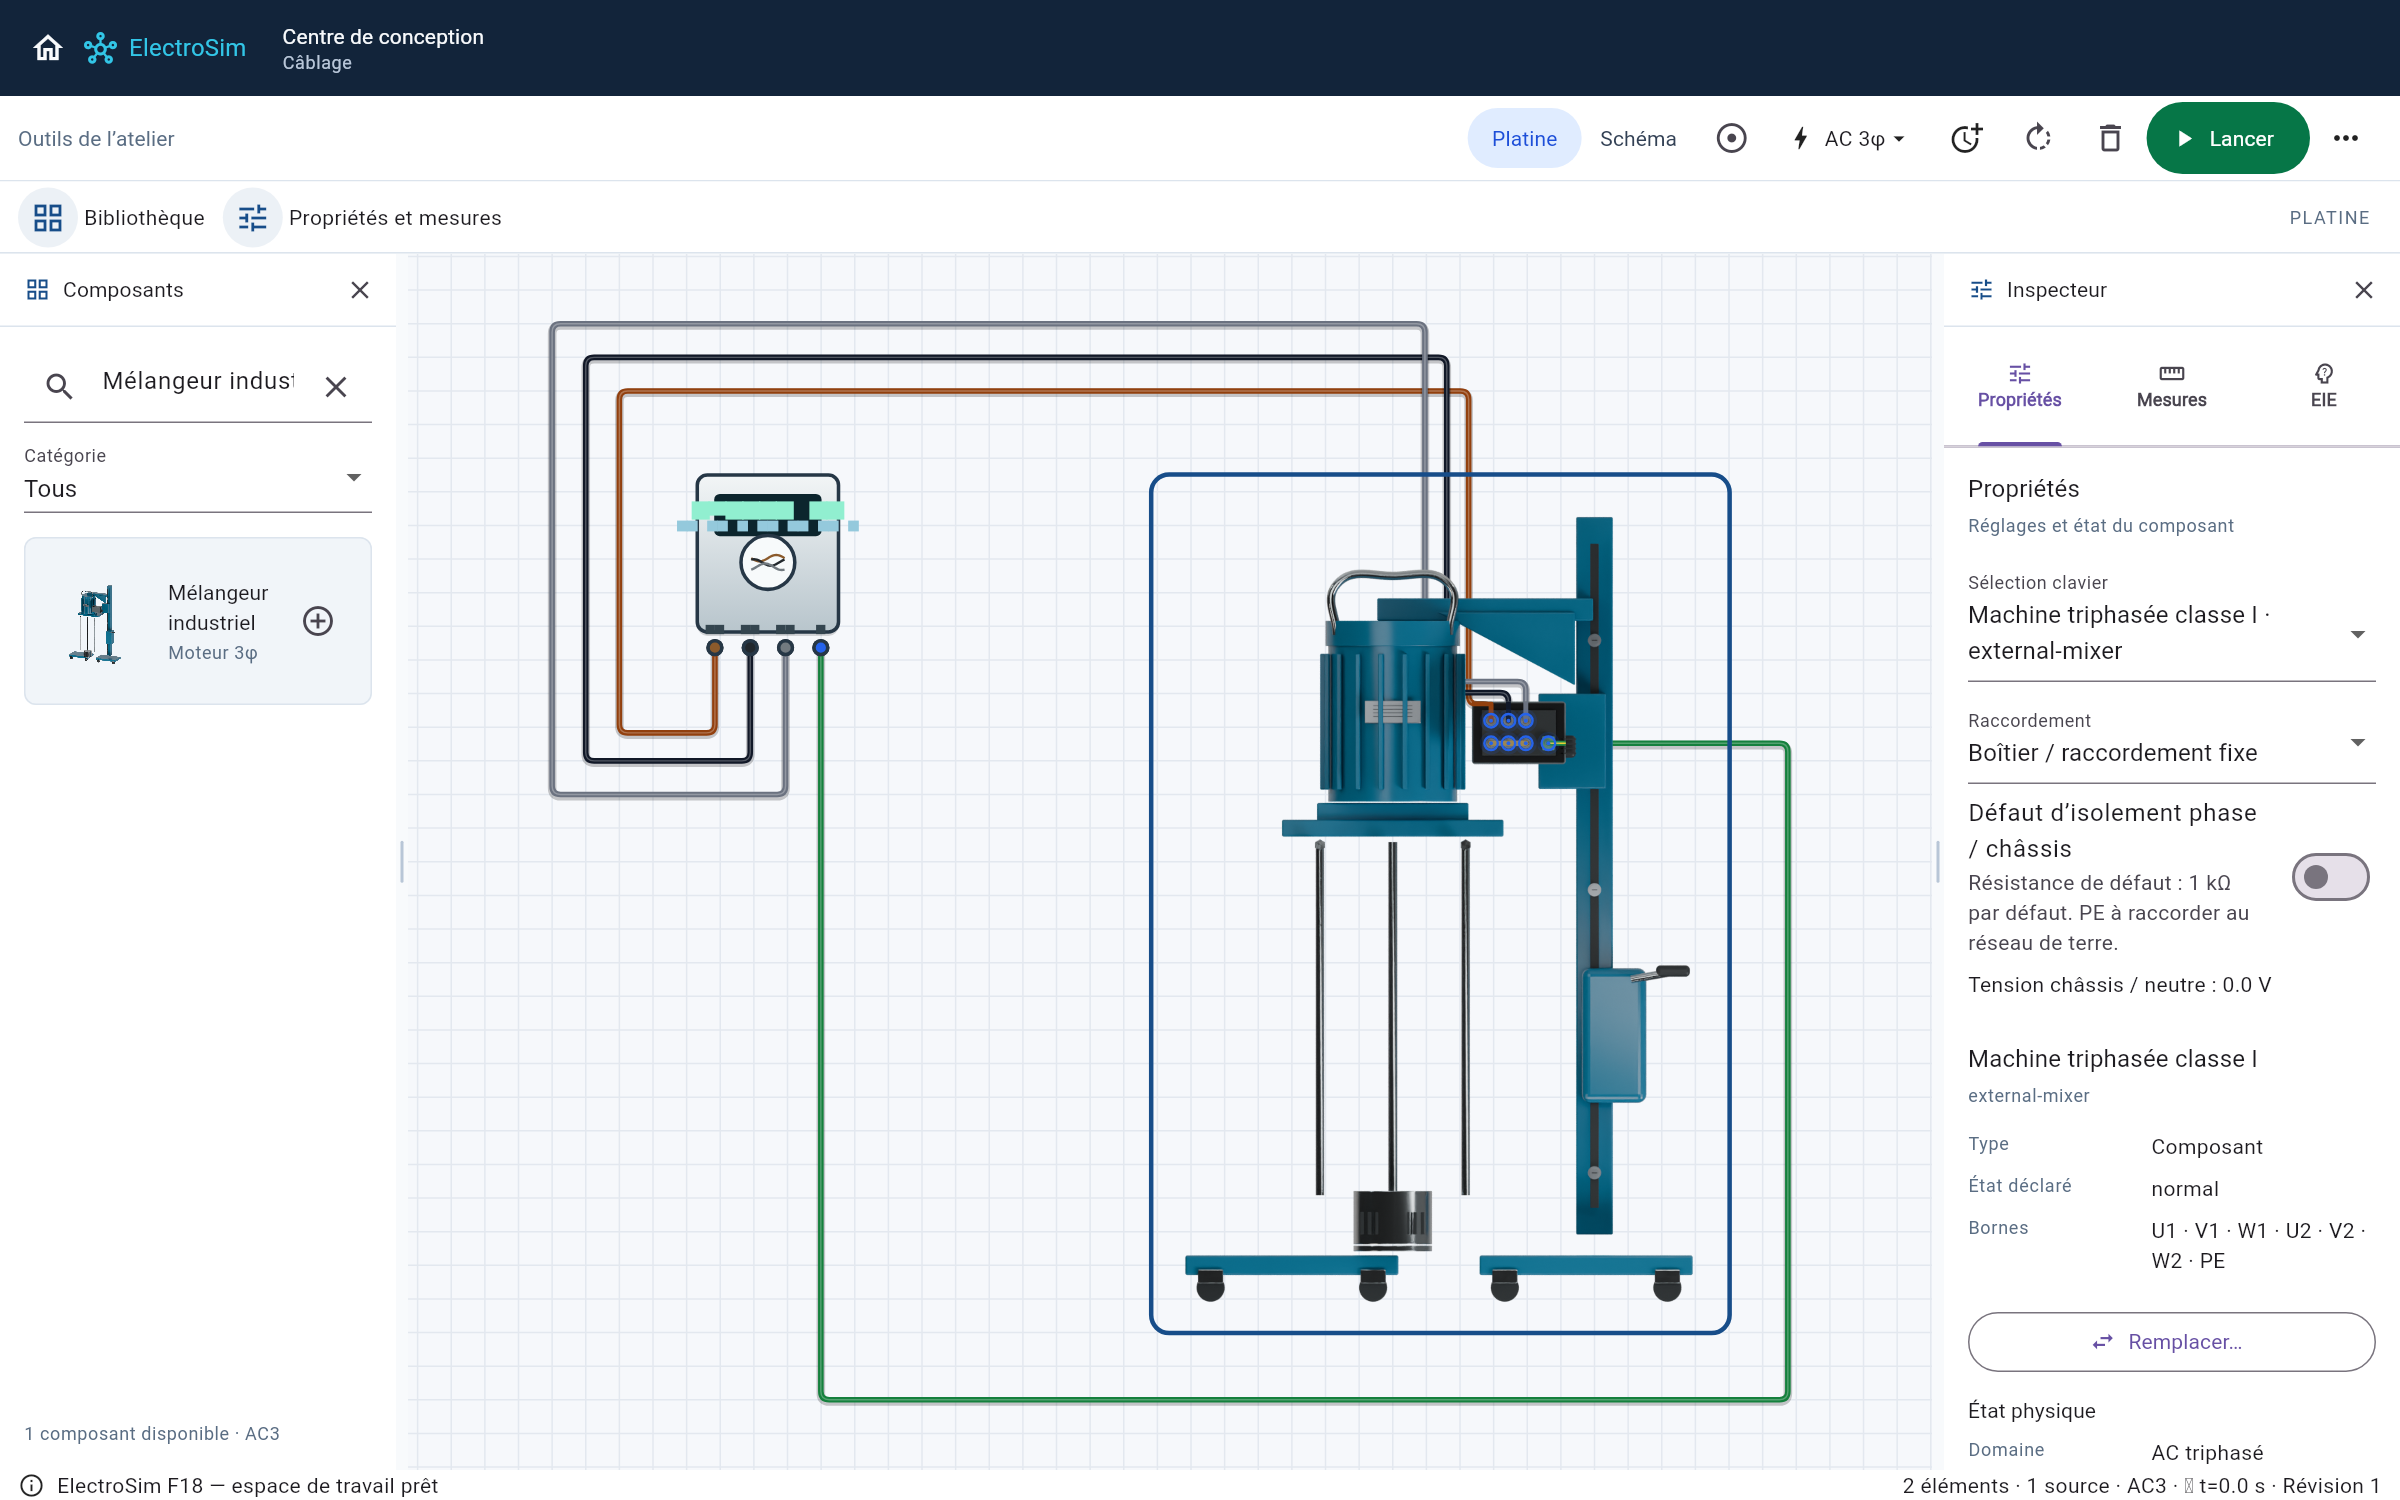
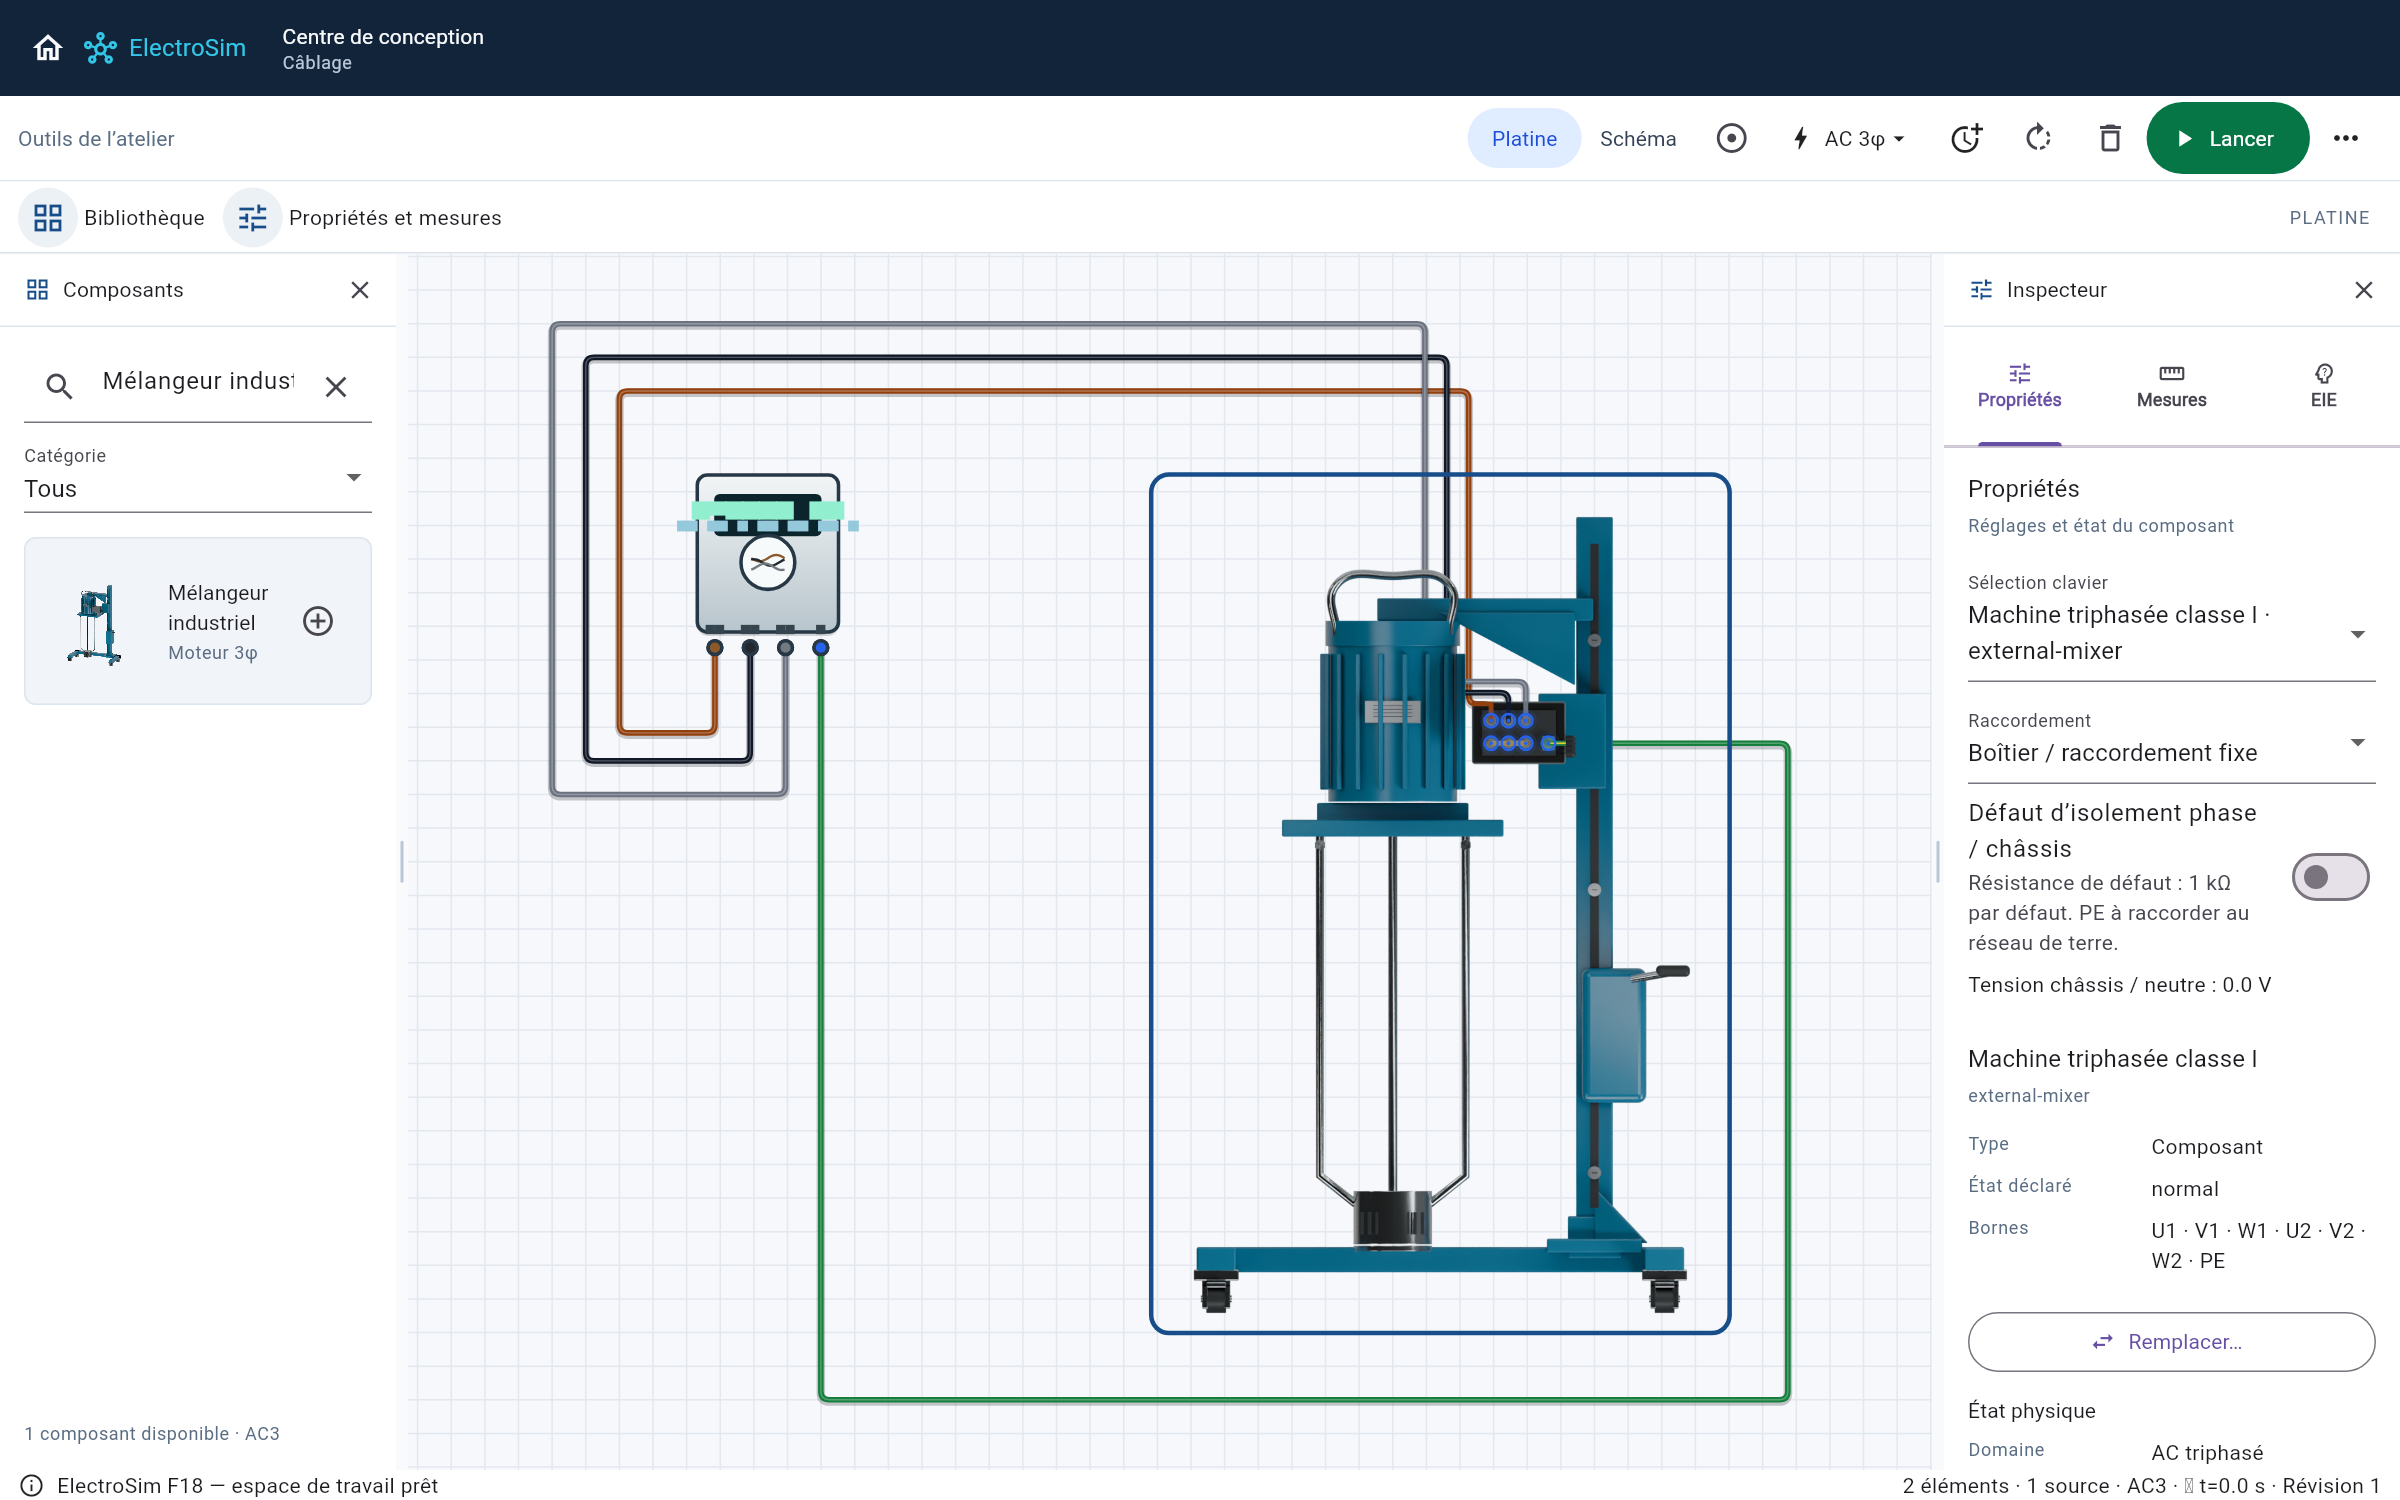
fix(rendering): align pump supports and publish corrected Flutter proofs

diff --git a/tools/g5_3d_remaining/lot_06_15_geometry.py b/tools/g5_3d_remaining/lot_06_15_geometry.py
@@ -46,7 +46,7 @@ def plate(h,n,x,y,z,w=22,hh=10):
     for i in range(4):h.box(n+'_engraving_'+str(i),x,y-hh*.28+i*hh*.16,w*.7,.2,z+.2,.1,h.black)
 
 
-def motor(h,x,y,z,d,r,m,vertical=False):
+def motor(h,x,y,z,d,r,m,vertical=False,foot_drop=0):
     axis='y' if vertical else 'x';cylinder(h,'cast_motor_body',x,y,z,r,d,m,axis)
     for i in range(18):
         a=i*math.tau/18
@@ -59,9 +59,9 @@ def motor(h,x,y,z,d,r,m,vertical=False):
         cylinder(h,'motor_fan_cover',x+d/2+3,y,z,r+1,9,m,axis)
         for xx in (x-d*.26,x+d*.26):
             # Cast B3 pedestals intersect both the cylindrical casing and feet.
-            h.box('motor_pedestal_'+str(xx),xx,y+r-1,12,14,z+7,18,m,r=1)
-            h.box('motor_foot_'+str(xx),xx,y+r+7,15,8,z+4,21,m,r=.5)
-            screw(h,'motor_anchor_'+str(xx),xx,y+r+7,z+5,1.5)
+            h.box('motor_pedestal_'+str(xx),xx,y+r-1+foot_drop/2,12,14+foot_drop,z+7,18,m,r=1)
+            h.box('motor_foot_'+str(xx),xx,y+r+7+foot_drop,15,8,z+4,21,m,r=.5)
+            screw(h,'motor_anchor_'+str(xx),xx,y+r+7+foot_drop,z+5,1.5)
     plate(h,'motor_rating_plate',x,y-r*.15,z+r+1,20,8)
 
 
@@ -236,7 +236,8 @@ def pump(h,s,single=False):
     # is a detached icon; the flange remains behind the frontal volute cover.
     cylinder(h,'pump_motor_coupling_adapter',118 if single else 136,
         112 if single else 119,19,25 if single else 28,20 if single else 26,m,'x')
-    motor(h,173 if single else 204,112 if single else 119,19,101 if single else 117,30 if single else 34,m)
+    motor(h,173 if single else 204,112 if single else 119,19,101 if single else 117,
+        30 if single else 34,m,foot_drop=15.5 if single else 19.5)
     if not single:h.box('motor_terminal_box_mount',188,81,31,14,42,18,m,r=1.2)
     if single:h.box('capacitor_housing',175,66,56,29,37,25,m,r=5)
     terminals(h,s)
@@ -291,8 +292,12 @@ def mixer(h,s):
     motor(h,83,85,26,57,23,m,True)
     h.box('support_plate',83,123,79,6,37,58,m,r=.6)
     for x in (57,109):
-        h.tube('sanitary_rod_'+str(x),[(x,124,35),
+        rod=h.tube('sanitary_rod_'+str(x),[(x,124,35),
             (x,247,35),(71 if x==57 else 95,258,35)],1.5,steel)
+        # These are rigid stays, not flexible cables: keep the long section
+        # straight instead of letting AUTO handles bow it along its length.
+        for point in rod.data.splines[0].bezier_points:
+            point.handle_left_type='VECTOR';point.handle_right_type='VECTOR'
         h.bolt('rod_nut_'+str(x),x,129,37,2,steel)
     h.tube('drive_shaft',[(83,124,35),(83,257,35)],1.6,steel)
     cylinder(h,'high_shear_workhead',83,262,35,14,19,steel,'y')

diff --git a/tools/g5_3d_remaining/check_support_connections.py b/tools/g5_3d_remaining/check_support_connections.py
@@ -64,4 +64,8 @@ for key in ('external-mixer', 'external-pump-3p', 'external-pump-ac1', 'external
             if obj.name.startswith('motor_pedestal_'):
                 contact('cast_motor_body', obj.name)
                 contact(obj.name, obj.name.replace('pedestal', 'foot'))
+                # Pump and motor share one anchoring plane; feet must not hang
+                # higher than the volute base on an otherwise rigid assembly.
+                foot = bounds(obj.name.replace('pedestal', 'foot'))
+                assert abs(foot[1][0] - bounds('volute_foot')[1][0]) < .1
     print('STRUCTURAL CONTACT PASS: ' + key)

diff --git a/docs/g5-proofs/lot-06-15/support-correction.md b/docs/g5-proofs/lot-06-15/support-correction.md
@@ -14,11 +14,14 @@ Leurs images et empreintes sont recensées dans `photo-references.json`.
 Corrections de géométrie :
 
 - Pompes AC1 et triphasée : cols moulés reliant les pattes au carter moteur et
-  à la volute, avec recouvrement réel des volumes.
+  à la volute, avec recouvrement réel des volumes et appuis alignés sur un même
+  plan. La hauteur des piédestaux compense la différence de diamètre des corps.
 - Pompe solaire : oreilles d'ancrage raccordées au socle.
 - Mélangeur : châssis en U avec traverse arrière, jambes longitudinales,
   embase soudée du mât et gousset ; roulettes avec platines, pivots, fourches,
   axes et pédales de frein. La tête reste libre entre les jambes du châssis.
+  Les tiges de maintien sont raccordées à cette tête, avec une section longue
+  droite ; l'arbre central reste droit.
 
 Ces modifications concernent les maillages et leurs textures. Les dimensions
 logiques, bornes, raccordements, modèles électriques et projets sauvegardés
@@ -35,3 +38,17 @@ Ce contrôle mesure les recouvrements des boîtes englobantes des objets : il
 détecte les appuis séparés et vérifie la chaîne de support du châssis. Les
 surfaces courbes et l'apparence des soudures nécessitent aussi la revue des
 rendus. Il ne constitue pas un calcul de résistance mécanique.
+
+Vérification effectuée : quatre maillages passent ce contrôle ; 31 tests Flutter
+passent, incluant les contrats de bornes, pontages, migrations et les quatre
+captures interactives. Douze captures réelles sont renouvelées : appareil
+fermé, maintenance et fonctionnement pour chaque composant.
+
+```sh
+cd apps/electrosim
+flutter test --no-pub \
+  --dart-define=G5_PROOF_KEYS=external-mixer,external-pump-3p,external-pump-ac1,external-solar-pump \
+  test/g5_lot_06_15_geometry_test.dart \
+  test/g5_lot_06_15_migration_test.dart \
+  tool/capture_g5_lot_06_15_test.dart
+```

diff --git a/tools/g5_3d_remaining/SEQUENTIAL_STATUS.md b/tools/g5_3d_remaining/SEQUENTIAL_STATUS.md
@@ -122,3 +122,10 @@ Voir `docs/g5-proofs/lot-06-15/README.md` pour les trente captures réelles,
 les 57 tests locaux et les limites. Aucun de ces dix visuels n'est déclaré validé
 par l'utilisateur. Il reste 11 identités non commencées dans cet inventaire
 (16–26). Pas de merge G5 ni de campagne générale 400 composants pendant ce lot.
+
+### Correction des appuis — pompes et mélangeur
+- Photos constructeur Silverson, Pedrollo et Lorentz réexaminées. Pattes raccordées aux carters/socles ; pompe AC1 et triphasée avec plan d’appui commun.
+- Mélangeur : châssis en U continu, embase soudée du mât, roulettes fixées par platines/pivots/fourches/axes ; tiges rigides raccordées à la tête suspendue.
+- Blender : 4 contrôles structurels passent, dont alignement des appuis et dégagement de la tête entre les jambes du châssis.
+- Flutter : 31 tests ciblés passent (géométrie, migration, 4 captures interactives) ; 12 PNG réels renouvelés dans `docs/g5-proofs/lot-06-15/`.
+- Aucun changement du contrat électrique, des dimensions logiques ni des bornes. Revue esthétique utilisateur toujours en attente ; aucune fusion G5.

diff --git a/docs/g5-proofs/lot-06-15/README.md b/docs/g5-proofs/lot-06-15/README.md
@@ -82,3 +82,11 @@ Les PNG d'interface sont écrits dans `apps/electrosim/build/g5-lot-06-15-proof/
 `--dart-define=G5_PROOF_KEYS=external-iron` limite la capture à une identité, sans
 changer le rendu de production. Les anciennes preuves PNG restent accessibles
 dans l'historique Git ; les nouveaux fichiers sont les preuves de ce lot.
+
+## Appuis des pompes et châssis du mélangeur
+
+Les captures du mélangeur et des trois pompes ont été renouvelées après la
+[correction des appuis](support-correction.md). Les pattes sont reliées aux
+carters ; le châssis roulant supporte le mât, et la tête de mélange reste
+suspendue. 31 tests Flutter ciblés et les contrôles structurels des quatre
+maillages passent. Les empreintes actualisées figurent dans `provenance.json`.
